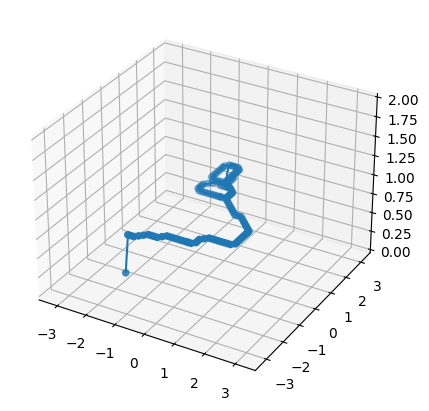
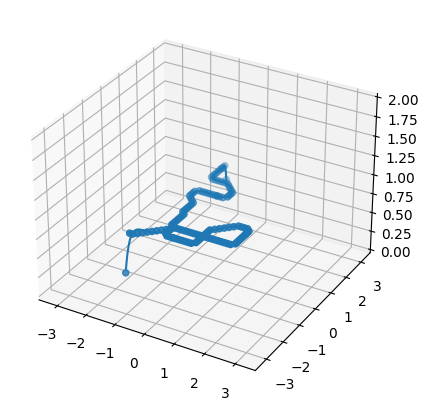
update

Changed region(s): [[0.2727, 0.3796, 0.5758, 0.6423]]

diff --git a/aer-course-project/edit_this.py b/aer-course-project/edit_this.py
@@ -117,7 +117,7 @@ class Controller():
         plot_trajectory(t_scaled, self.waypoints, self.ref_x, self.ref_y, self.ref_z)
 
         # Draw the trajectory on PyBullet's GUI.
-        # draw_trajectory(initial_info, self.waypoints, self.ref_x, self.ref_y, self.ref_z)
+        draw_trajectory(initial_info, self.waypoints, self.ref_x, self.ref_y, self.ref_z)
 
 
     def planning(self, use_firmware, initial_info):
@@ -138,18 +138,20 @@ class Controller():
 
 
         # c = np.fromfile('test_path.dat', dtype=float)
-        a = np.load('test_path0.npy')
+        load_folder='Path_files/path_2134/'
+        
+        a = np.load(load_folder+'test_path0.npy')
 
-        b = np.load('test_path1.npy')
+        b = np.load(load_folder+'test_path1.npy')
         # b = np.delete(b, (0), axis=0)
 
-        c = np.load('test_path2.npy')
+        c = np.load(load_folder+'test_path2.npy')
         # c = np.delete(c, (0), axis=0)
 
-        d = np.load('test_path3.npy')
+        d = np.load(load_folder+'test_path3.npy')
         # d = np.delete(d, (0), axis=0)
 
-        e = np.load('test_path_final.npy')
+        e = np.load(load_folder+'test_path_final.npy')
         # e = np.delete(e, (0), axis=0)
         pathhhh=[a,b,c,d,e]
         path=np.vstack((a,b,c,d,e))
@@ -170,7 +172,7 @@ class Controller():
                 # duration = 2
                 print(f"number of pts for {i}:::::::::::::::",self.waypoints.shape[0])
                 print("time needed this step:",self.waypoints.shape[0]/15)
-                duration = math.ceil(self.waypoints.shape[0]/15)+0.5
+                duration = math.ceil(self.waypoints.shape[0]/15)
                 self.time_needed+=duration
                 t_scaled = np.linspace(t[0], t[-1], int(duration*self.CTRL_FREQ))
                 self.ref_x = fx(t_scaled)
@@ -179,7 +181,7 @@ class Controller():
             else:
                 temp_waypoint=p
                 if i==4:
-                    temp_waypoint[-1,2]=0.7
+                    temp_waypoint[-1,2]=0.8
                     print(temp_waypoint)
 
                 
@@ -197,7 +199,7 @@ class Controller():
                     duration=temp_waypoint.shape[0]/15
                 else:
 
-                    duration = math.ceil(temp_waypoint.shape[0]/15)+0.5
+                    duration = math.ceil(temp_waypoint.shape[0]/15)
                 self.time_needed+=duration
 
                 temp_t_scaled=np.linspace(t[0], t[-1], int(duration*self.CTRL_FREQ))

diff --git a/aer-course-project/example_custom_utils.py b/aer-course-project/example_custom_utils.py
@@ -481,7 +481,7 @@ def compute_fullpath(order):
             obs.append([gate[0]-obs_buffer,gate[1]+0.2,gate_rad])
             obs.append([gate[0]-obs_buffer,gate[1]-0.2,gate_rad])
 
-            obs.append([gate[0]+obs_buffer,gate[1]+0.3,gate_rad])
+            obs.append([gate[0]+obs_buffer,gate[1]+0.3,gate_rad]) #+0.4
             obs.append([gate[0]+obs_buffer,gate[1]-0.3,gate_rad])
 
             obs.append([gate[0]-obs_buffer,gate[1]+0.3,gate_rad])
